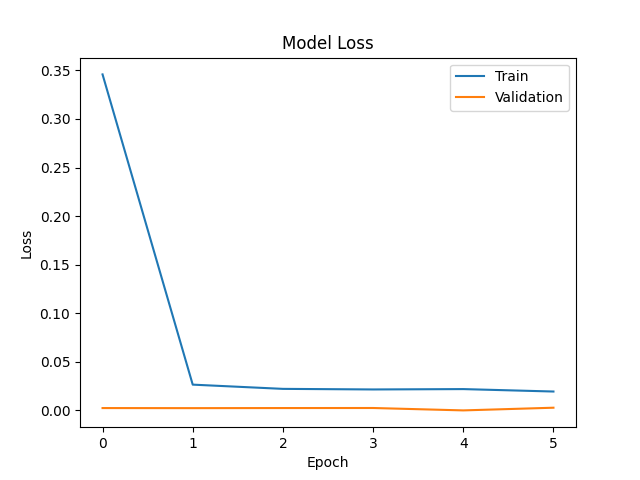
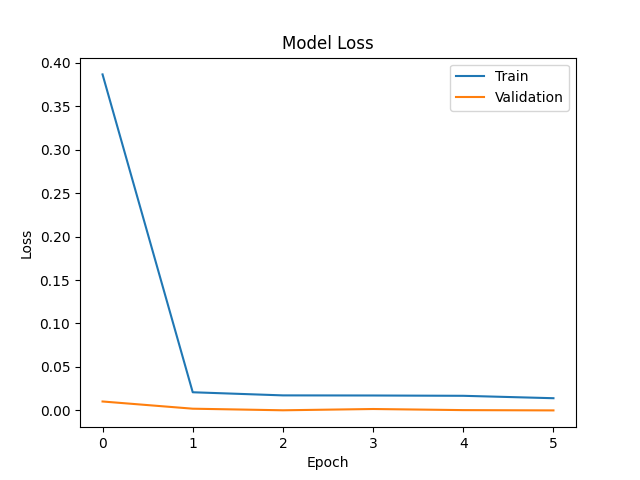
Refactor code for improved readability

diff --git a/main.py b/main.py
@@ -6,6 +6,8 @@ from tensorflow.keras.layers import LSTM
 from keras.layers import Dense, Dropout
 from sklearn.metrics import r2_score, mean_squared_error
 import math
+from tensorflow.keras.models import load_model
+
 
 # Normalized Root Mean Squared Error (NRMSE)
 def normalized_rmse(true_values, predicted_values):
@@ -14,138 +16,149 @@ def normalized_rmse(true_values, predicted_values):
     nrmse = rmse / range_true
     return nrmse
 
-# data load from csv
-df = pd.read_csv('usd_eur.csv')
-
-# Columns what we need are selected
-df = df[["Tarih", "Açılış"]]
-
-# convert datetime to date column
-df["Tarih"] = pd.to_datetime(df["Tarih"], format='%d.%m.%Y')
-
-# Convert float dependent variable
-df["Açılış"] = df["Açılış"].str.replace(',', '.')
-df["Açılış"] = df["Açılış"].astype(float)
-
-# Sort values ascending according to Tarih column
-df = df.sort_values(by='Tarih', ascending=True)
-
-# Reset index
-df = df.reset_index(drop=True)
-
-# Split dataframe to df_train and df_test
-df_train = df[df["Tarih"] <= '2023-10-31']
-df_test = df[df["Tarih"] > '2023-10-31']
-
-# Visualize dependent variable for df_test and df_train
-plt.plot(df_test["Tarih"],df_test["Açılış"])
-plt.title('Test Data USD-EUR')
-plt.savefig('png/test_data.png')
-plt.show()
+def performance_metrics_visualization(y_test, testPredict):
+    testPredict_vis = testPredict.reshape(testPredict.shape[0] * testPredict.shape[1], 1)
+    y_test_vis = y_test.reshape(y_test.shape[0] * y_test.shape[1], 1)
 
 
-plt.plot(df_train["Tarih"],df_train["Açılış"])
-plt.title('Train Data USD-EUR')
-plt.savefig('png/train_data.png')
-plt.show()
+    r_squared = r2_score(y_test_vis, testPredict_vis)
+    print("R-Squared:", r_squared)
 
-df_train=df_train.set_index("Tarih")
-df_test=df_test.set_index("Tarih")
+    # Mean Squared Error (MSE)
+    mse = mean_squared_error(y_test_vis, testPredict_vis)
+    print("MSE:", mse)
 
-#Prepare train datasets
-window_size = 6
-x_train = []
-y_train = []
-n_future = 1  # Number of days we want to look into the future based on the past days.
+    # Root Mean Squared Error (RMSE)
+    rmse = math.sqrt(mse)
+    print("RMSE:", rmse)
 
-for i in range(window_size, len(df_train) - n_future + 1):
-    x_train.append(df_train.iloc[i - window_size:i, 0:df_train.shape[1]])
-    y_train.append(df_train.iloc[i + n_future - 1:i + n_future, 0])
+    nrmse = normalized_rmse(y_test_vis, testPredict_vis)
+    print("NRMSE:", nrmse)
 
-#Prepare test datasets
-x_test = []
-y_test = []
-for i in range(window_size, len(df_test) - n_future + 1):
-    x_test.append(df_test.iloc[i - window_size:i, 0:df_test.shape[1]])
-    y_test.append(df_test.iloc[i + n_future - 1:i + n_future, 0])
+    plt.plot(testPredict_vis[:, 0], label='Predict')
+    plt.title('Predict')
+    plt.savefig('png/predict.png')
+    plt.legend()
+    plt.show()
 
-#convert from list to array
-x_train=np.array(x_train)
-y_train=np.array(y_train)
-x_test=np.array(x_test)
-y_test=np.array(y_test)
+    plt.plot(y_test_vis[:, 0], label='Test')
+    plt.title('Actual')
+    plt.savefig('png/actual.png')
+    plt.legend()
+    plt.show()
 
-#convert float32
-x_train = x_train.astype('float32')
-y_train = y_train.astype('float32')
-x_test = x_test.astype('float32')
-y_test = y_test.astype('float32')
+    plt.plot(testPredict_vis[:, 0], label='Predict')
+    plt.legend()
+    plt.plot(y_test_vis[:, 0], label='Test')
+    plt.legend()
+    plt.title('Predict vs Actual')
+    plt.savefig('png/predictVSactual.png')
+    plt.show()
+
+def lstm_history_visualization(history):
+    plt.plot(history.history['loss'])
+    plt.plot(history.history['val_loss'])
+    plt.title('Model Loss')
+    plt.xlabel('Epoch')
+    plt.ylabel('Loss')
+    plt.legend(['Train', 'Validation'], loc='upper right')
+    plt.savefig('png/model_loss.png')
+    plt.show()
+
+def building_lstm_model(x_train, y_train):
+    # Building model
+    model = Sequential()
+    model.add(LSTM(128, activation='relu', input_shape=(x_train.shape[1], x_train.shape[2]), return_sequences=True))
+    model.add(LSTM(64, activation='relu', return_sequences=False))
+    model.add(Dropout(0.2))
+    model.add(Dense(y_train.shape[1]))
+
+    model.compile(optimizer='adam', loss='mse')
+    history = model.fit(x_train, y_train, epochs=6, batch_size=16, validation_split=0.1, verbose=1)
+
+    lstm_history_visualization(history)
+
+    # save model
+    model.save(f'lstm_model.h5')
+
+    print("model fitted and saved")
+    return model,history
+
+def df_to_X_and_y_for_lstm(df_train,df_test):
+    # Prepare train datasets
+    window_size = 6
+    x_train = []
+    y_train = []
+    n_future = 0  # Number of days we want to look into the future based on the past days.
+
+    for i in range(window_size, len(df_train) - n_future + 1):
+        x_train.append(df_train.iloc[i - window_size:i, 0:df_train.shape[1]])
+        y_train.append(df_train.iloc[i + n_future - 1:i + n_future, 0])
+
+    # Prepare test datasets
+    x_test = []
+    y_test = []
+    for i in range(window_size, len(df_test) - n_future + 1):
+        x_test.append(df_test.iloc[i - window_size:i, 0:df_test.shape[1]])
+        y_test.append(df_test.iloc[i + n_future - 1:i + n_future, 0])
+
+    return np.array(x_train).astype('float32'), np.array(x_test).astype('float32'),np.array(y_train).astype('float32'), np.array(y_test).astype('float32')
+def plot_train_and_test(df_train,df_test):
+    # Visualize dependent variable for df_test and df_train
+    plt.plot(df_test["Tarih"], df_test["Açılış"])
+    plt.title('Test Data USD-EUR')
+    plt.savefig('png/test_data.png')
+    plt.show()
+
+    plt.plot(df_train["Tarih"], df_train["Açılış"])
+    plt.title('Train Data USD-EUR')
+    plt.savefig('png/train_data.png')
+    plt.show()
+
+def data_preprocessing(df):
+    # Columns what we need are selected
+    df = df[["Tarih", "Açılış"]]
+
+    # convert datetime to date column
+    df["Tarih"] = pd.to_datetime(df["Tarih"], format='%d.%m.%Y')
+
+    # Convert float dependent variable
+    df["Açılış"] = df["Açılış"].str.replace(',', '.')
+    df["Açılış"] = df["Açılış"].astype(float)
+
+    # Sort values ascending according to Tarih column
+    df = df.sort_values(by='Tarih', ascending=True)
+
+    # Reset index
+    df = df.reset_index(drop=True)
+
+    return df
+
+def main():
+    # data load from csv
+    df = pd.read_csv('usd_eur.csv')
+
+    df = data_preprocessing(df)
+
+    # Split dataframe to df_train and df_test
+    df_train = df[df["Tarih"] <= '2023-10-31']
+    df_test = df[df["Tarih"] > '2023-10-31']
+
+    plot_train_and_test(df_train, df_test)
+
+    df_train = df_train.set_index("Tarih")
+    df_test = df_test.set_index("Tarih")
+
+    x_train,x_test,y_train,y_test=df_to_X_and_y_for_lstm(df_train, df_test)
+
+    model , history = building_lstm_model(x_train, y_train)
+    #model = load_model('lstm_model.h5')
 
 
-#Building model
-model = Sequential()
-model.add(LSTM(128, activation='relu', input_shape=(x_train.shape[1], x_train.shape[2]), return_sequences=True))
-model.add(LSTM(64, activation='relu', return_sequences=False))
-model.add(Dropout(0.2))
-model.add(Dense(y_train.shape[1]))
-
-model.compile(optimizer='adam', loss='mse')
-history = model.fit(x_train, y_train, epochs=6, batch_size=16, validation_split=0.1, verbose=1)
-
-#save model
-model.save(f'lstm_model.h5')
-print("model fitted and saved")
+    # Predict and visualize model performance
+    testPredict = model.predict(x_test)
 
 
-plt.plot(history.history['loss'])
-plt.plot(history.history['val_loss'])
-plt.title('Model Loss')
-plt.xlabel('Epoch')
-plt.ylabel('Loss')
-plt.legend(['Train', 'Validation'], loc='upper right')
-plt.savefig('png/model_loss.png')
-plt.show()
+    performance_metrics_visualization(y_test,testPredict)
 
-
-#Predict and visualize model performance
-testPredict = model.predict(x_test)
-testPredict_vis=testPredict.reshape(testPredict.shape[0]*testPredict.shape[1],1)
-y_test_vis=y_test.reshape(y_test.shape[0]*y_test.shape[1],1)
-
-
-r_squared = r2_score(y_test_vis, testPredict_vis)
-print("R-Squared:", r_squared)
-
-# Mean Squared Error (MSE)
-mse = mean_squared_error(y_test_vis, testPredict_vis)
-print("MSE:", mse)
-
-# Root Mean Squared Error (RMSE)
-rmse = math.sqrt(mse)
-print("RMSE:", rmse)
-
-
-nrmse = normalized_rmse(y_test_vis, testPredict_vis)
-print("NRMSE:", nrmse)
-
-plt.plot(testPredict_vis[:,0], label='Predict')
-plt.title('Predict')
-plt.savefig('png/predict.png')
-plt.legend()
-plt.show()
-
-plt.plot(y_test_vis[:,0], label='Test')
-plt.title('Actual')
-plt.savefig('png/actual.png')
-plt.legend()
-plt.show()
-
-
-plt.plot(testPredict_vis[:,0], label='Predict')
-plt.legend()
-plt.plot(y_test_vis[:,0], label='Test')
-plt.legend()
-plt.title('Predict vs Actual')
-plt.savefig('png/predictVSactual.png')
-plt.show()
-
+main()
